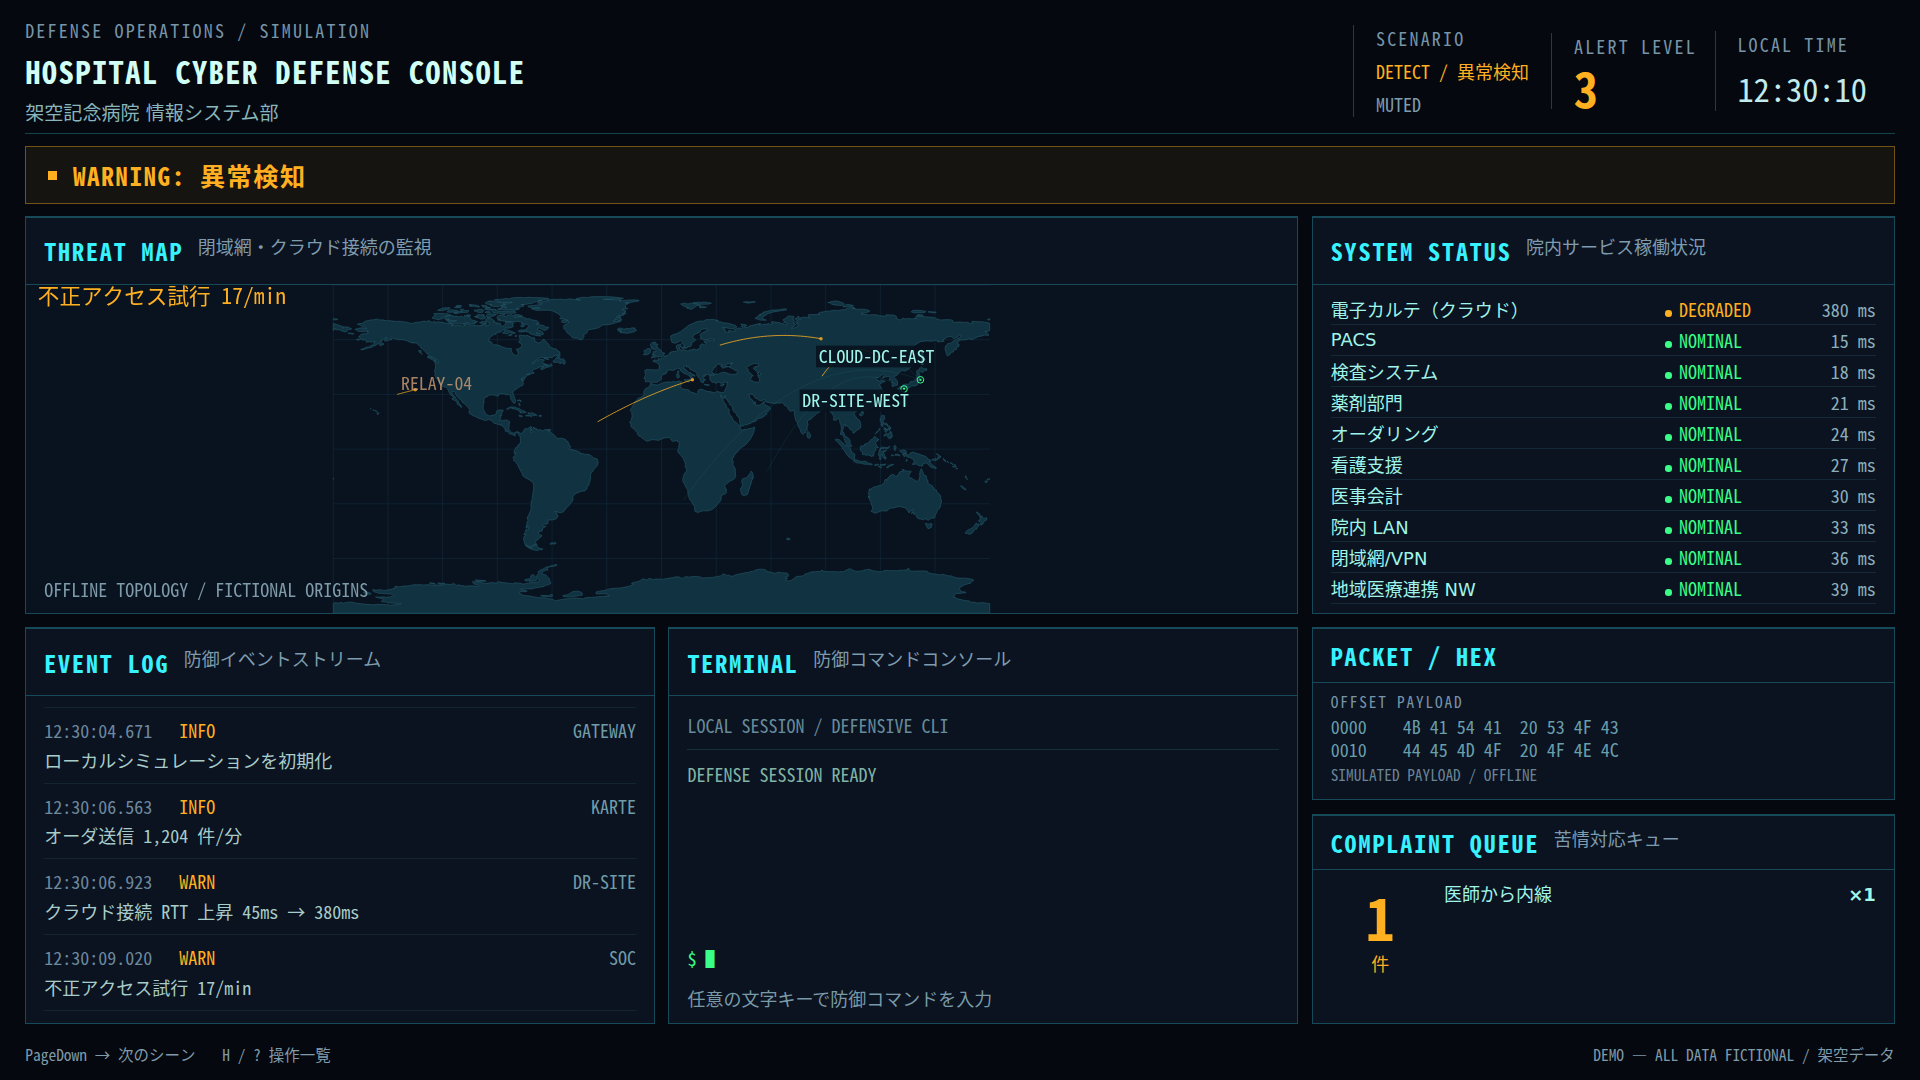
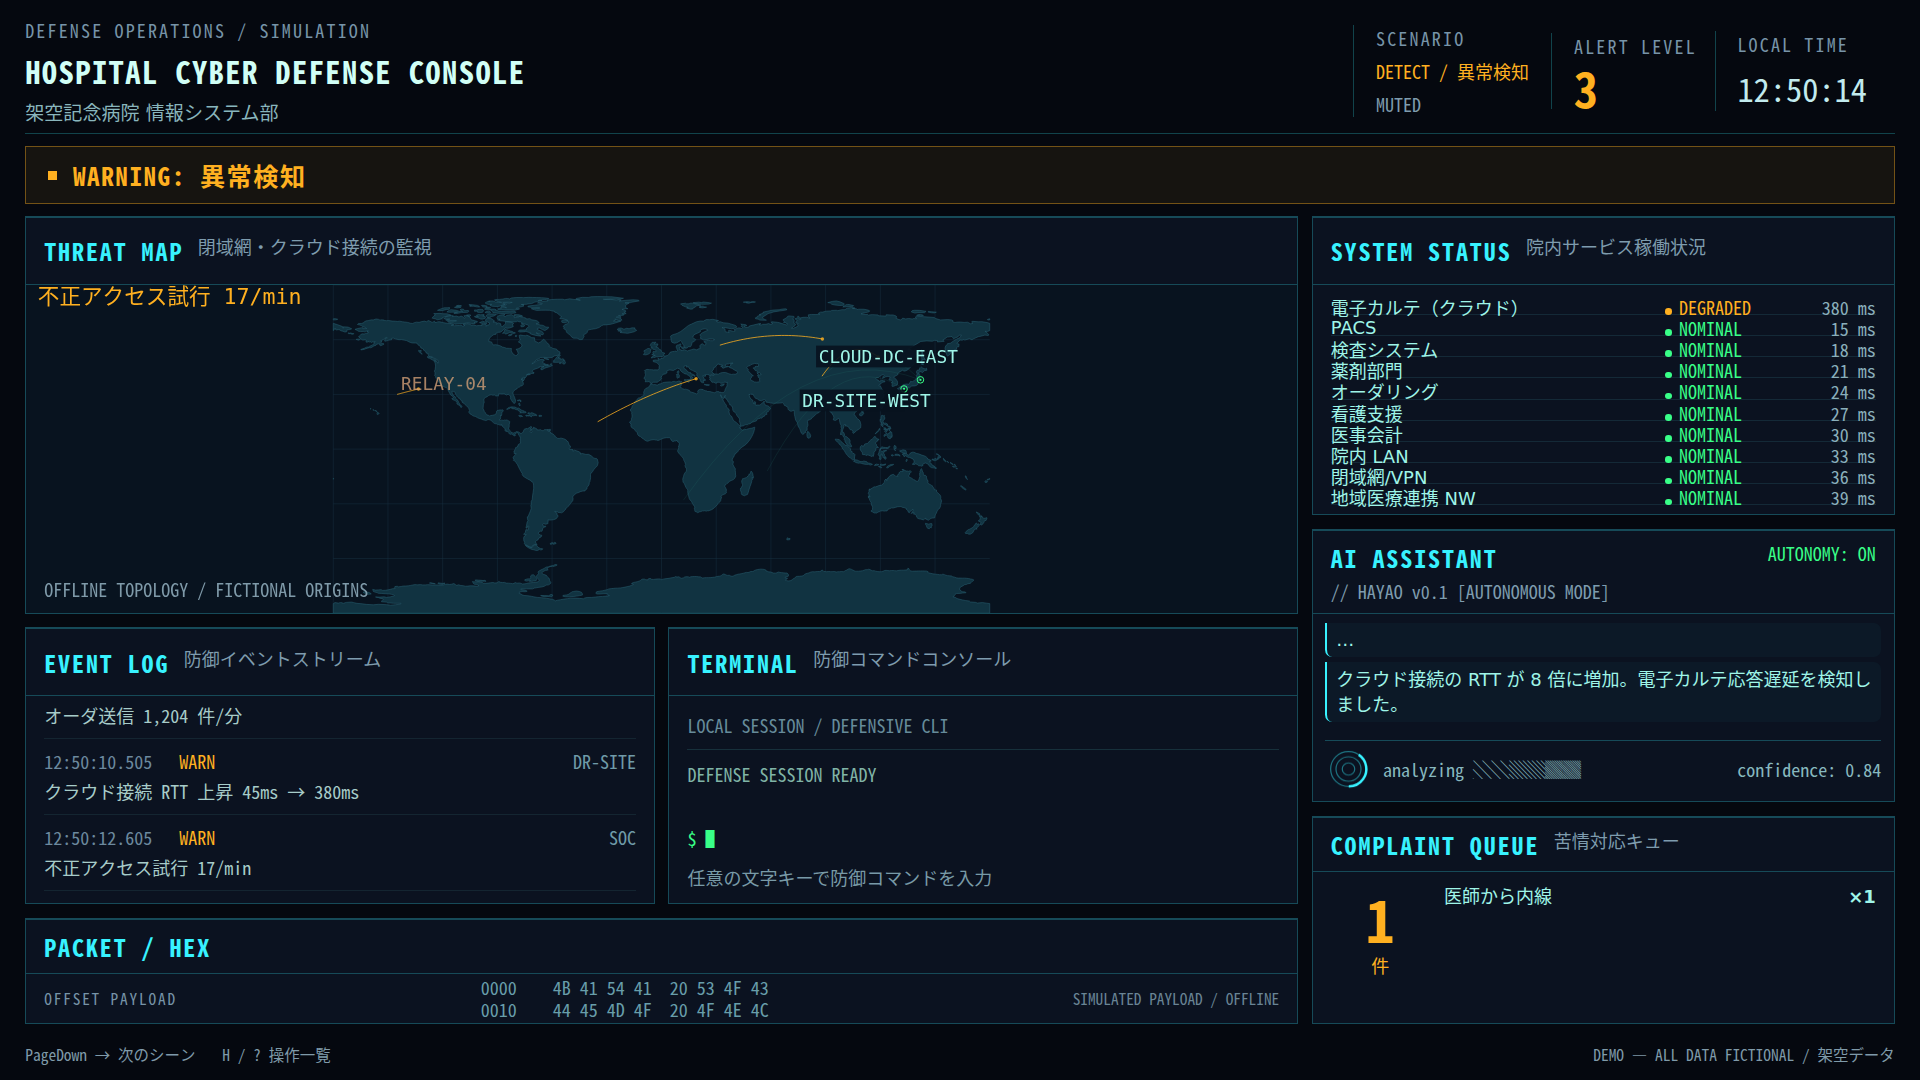
test(assistant): verify controls and refresh scene screenshots

diff --git a/README.md b/README.md
@@ -2,7 +2,7 @@
 
 架空記念病院の「対処している感」を出す、LT 用サイバー防衛コンソール。実際の監視・攻撃・患者情報の処理は行いません。実行時は外部通信ゼロ、すべて架空データです。
 
-Phase 1 の MVP です。仕様の正本は [SPEC.md](SPEC.md)、実装上の判断は [NOTES.md](NOTES.md) を参照してください。MIT ライセンス。
+Phase 1 の MVP に §4.6 の AI アシスタント「ハヤオ」を追加しています。仕様の正本は [SPEC.md](SPEC.md)、実装上の判断は [NOTES.md](NOTES.md) を参照してください。MIT ライセンス。
 
 ## 起動
 
@@ -37,12 +37,16 @@ npm run typecheck && npm test && npm run build
 | H / ?                | ヘルプ                                                 |
 | M                    | ミュート状態の表示切替（Phase 1 は音声なし）           |
 | A                    | 自動再生が Phase 2 対応予定である旨を表示              |
+| T                    | ハヤオが現在シーンの状況を 1 文で報告                  |
+| Ctrl+Shift+A         | ハヤオの AUTONOMY を ON / OFF                          |
 | R                    | BOOT へリセット                                        |
 | F                    | 全画面の開始・終了                                     |
 | Esc                  | ヘルプ / BACKSTAGE を閉じる                            |
 | F5 / Ctrl+R / Meta+R | リロードを抑止                                         |
 
-**COUNTER 中は印字キーがすべて TERMINAL 入力になります。** 機能操作は Ctrl+B / Ctrl+H / Ctrl+M / Ctrl+A / Ctrl+1〜6 等を使います。リセットは **Ctrl+Shift+R**、全画面は **Ctrl+Shift+F** です。矢印・PageUp / PageDown・Enter・Esc はそのまま使えます。クリッカーの「.」は印字入力です。
+**COUNTER 中は印字キーがすべて TERMINAL 入力になります。** 機能操作は Ctrl+B / Ctrl+H / Ctrl+M / Ctrl+A / Ctrl+T / Ctrl+1〜6 等を使います。リセットは **Ctrl+Shift+R**、全画面は **Ctrl+Shift+F** です。AUTONOMY は全シーンで **Ctrl+Shift+A** です。矢印・PageUp / PageDown・Enter・Esc はそのまま使えます。クリッカーの「.」は印字入力です。
+
+ハヤオは用意した台本を 35 字/秒でタイプ表示し、シーンの変化や Enter 演出の各バー完了を実況します。最新 4 発話をスクロール表示し、保持するログは最大 20 件です。AUTONOMY OFF では「…」と `AWAITING HUMAN` を表示し、T を押しても沈黙します。ON に戻すと状況報告を再開し、BOOT リセットでも ON に戻ります。END で B を押すと、BACKSTAGE の横で復旧の裏側について告白します。LLM・外部通信・音声読み上げは使用しません。
 
 ターン演出中は入力を無視します。フラッシュとシェイクは最初の 300 ms の 1 回だけで、3 本のプログレスバー、地図シールド、ACCESS DENIED の後に RECOVERY へ移ります。復旧は約 8.5 秒かけて完了します。END へは手動で進めてください。BOOT は約 3.6 秒で起動ログを表示し、任意キーを待ちます。
 
@@ -50,31 +54,32 @@ npm run typecheck && npm test && npm run build
 
 ## 5 分 LT での使用例
 
-| トークの位置                       | シーン・操作                             |
-| ---------------------------------- | ---------------------------------------- |
-| クラウド移行と通常運用を紹介       | BOOT → NORMAL                            |
-| 「ところが接続が不安定に」         | PageDown → DETECT                        |
-| 「苦情は病院の管理者へ集中」       | PageDown → INCIDENT、キューを見せる      |
-| 「カタカタカタ…ターン！」          | PageDown → COUNTER、文字を乱打して Enter |
-| 「ばばーんと復旧」                 | 自動で RECOVERY、復旧を待つ              |
-| 「裏側では大変な作業が続いている」 | PageDown → END。B は静的な紹介パネルのみ |
+| トークの位置                       | シーン・操作                                 |
+| ---------------------------------- | -------------------------------------------- |
+| クラウド移行と通常運用を紹介       | BOOT → NORMAL                                |
+| 「ところが接続が不安定に」         | PageDown → DETECT                            |
+| 「苦情は病院の管理者へ集中」       | PageDown → INCIDENT、キューを見せる          |
+| 「カタカタカタ…ターン！」          | PageDown → COUNTER、文字を乱打して Enter     |
+| 「ばばーんと復旧」                 | 自動で RECOVERY、復旧を待つ                  |
+| 「裏側では大変な作業が続いている」 | PageDown → END。B で紹介パネルとハヤオの告白 |
 
-音声、医療ネタの動的 HEX、スパークライン、詳細な BACKSTAGE タイムライン、自動再生、seed クエリ、走査線等の仕上げは Phase 2 の対象で、この版には含めません。Phase 3 の包括的 E2E スイート・CI・公開設定も対象外です。
+音声、医療ネタの動的 HEX、スパークライン、詳細な BACKSTAGE タイムライン、自動再生、全パネル共通の seed クエリ、走査線等の仕上げは Phase 2 の対象で、この版には含めません（ハヤオの confidence のみ `?seed=123` で固定できます）。Phase 3 の包括的 E2E スイート・CI・公開設定も対象外です。
 
 ## 文言と地図の編集
 
 画面の文言・架空データは `src/scenario/` に集約しています。
 
-| ファイル        | 内容                                     |
-| --------------- | ---------------------------------------- |
-| `messages.ts`   | 共通ラベル、起動ログ、定常イベント       |
-| `scenes.ts`     | シーン名・バナー、ターン演出のタイミング |
-| `systems.ts`    | システム名・状態名                       |
-| `commands.ts`   | 防御 CLI 台本と擬似出力（各 2〜5 行）    |
-| `complaints.ts` | 苦情の種類と件数                         |
-| `backstage.ts`  | 静的 BACKSTAGE 文言                      |
-| `help.ts`       | キー一覧と衝突ルール                     |
-| `geography.ts`  | 架空の弧の始点と防御対象座標             |
+| ファイル        | 内容                                                   |
+| --------------- | ------------------------------------------------------ |
+| `messages.ts`   | 共通ラベル、起動ログ、定常イベント                     |
+| `scenes.ts`     | シーン名・バナー、ターン演出のタイミング               |
+| `systems.ts`    | システム名・状態名                                     |
+| `commands.ts`   | 防御 CLI 台本と擬似出力（各 2〜5 行）                  |
+| `complaints.ts` | 苦情の種類と件数                                       |
+| `backstage.ts`  | 静的 BACKSTAGE 文言                                    |
+| `assistant.ts`  | ハヤオの発話・表示文言（オチは `backstageConfession`） |
+| `help.ts`       | キー一覧と衝突ルール                                   |
+| `geography.ts`  | 架空の弧の始点と防御対象座標                           |
 
 実在の組織・人名・国名・都市名・製品名・患者識別子を追加しないでください。IP は RFC 5737 の文書用 IPv4 または `2001:db8::/32` の IPv6 だけを使います。変更後に `tests/fictional-data.test.ts` を含む全テストを実行してください。自動検査は全個人情報を判定するものではないため、文言の目視確認も必要です。
 
@@ -92,7 +97,7 @@ node scripts/gen-map.mjs --fallback
 
 ## スクリーンショットと確認
 
-任意の Playwright 撮影スクリプトを同梱しています。`npm run e2e` はビルド済み HTML を **file://、オフライン**で開き、全シーンを撮影します。シーン遷移、連打中の入力ロック、復旧、クリッカー、F5、720p のパネル境界、外部リクエスト 0 件、コンソールエラー 0 件も簡易確認します。約 40 秒かかります。
+任意の Playwright 撮影スクリプトを同梱しています。`npm run e2e` はビルド済み HTML を **file://、オフライン**で開き、全シーンを撮影します。シーン遷移、連打中の入力ロック、復旧、クリッカー、F5、720p のパネル境界、ハヤオの状況報告・沈黙・実況・告白、外部リクエスト 0 件、コンソールエラー 0 件も簡易確認します。約 50 秒かかります。
 
 ```sh
 npx playwright install chromium
@@ -102,7 +107,7 @@ npm run e2e
 
 既存の Chromium を使用する場合は `PLAYWRIGHT_CHROMIUM_EXECUTABLE_PATH=/path/to/chrome npm run e2e`。制限付き Linux 環境で必要な場合のみ `PLAYWRIGHT_NO_SANDBOX=1` を追加します。Linux のライブラリが不足する場合は通常の開発環境で `npx playwright install --with-deps chromium` を実行してください。
 
-出力先は `docs/screenshots/01-boot.png` 〜 `07-end.png`（1920×1080）、演出中・ヘルプ・静的 BACKSTAGE・720p の追加画像です。Playwright が使えなければ、ブラウザを 1920×1080、ズーム 100% にし、BOOT および 1〜6 各シーンを OS のスクリーンショット機能で保存してください。COUNTER からのジャンプは Ctrl+数字です。
+出力先は `docs/screenshots/01-boot.png` 〜 `07-end.png`（1920×1080）、演出中・ヘルプ・静的 BACKSTAGE・720p・AUTONOMY OFF・720p の告白の追加画像です。Playwright が使えなければ、ブラウザを 1920×1080、ズーム 100% にし、BOOT および 1〜6 各シーンを OS のスクリーンショット機能で保存してください。COUNTER からのジャンプは Ctrl+数字です。
 
 ## トラブル時
 
